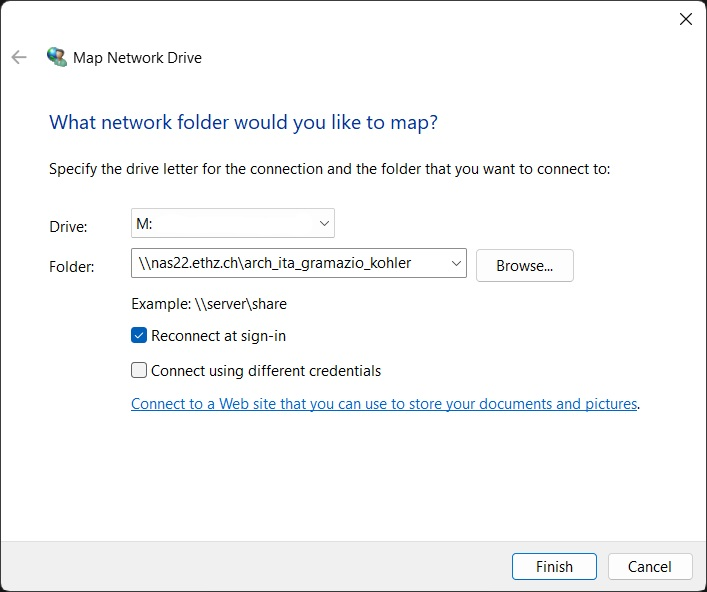
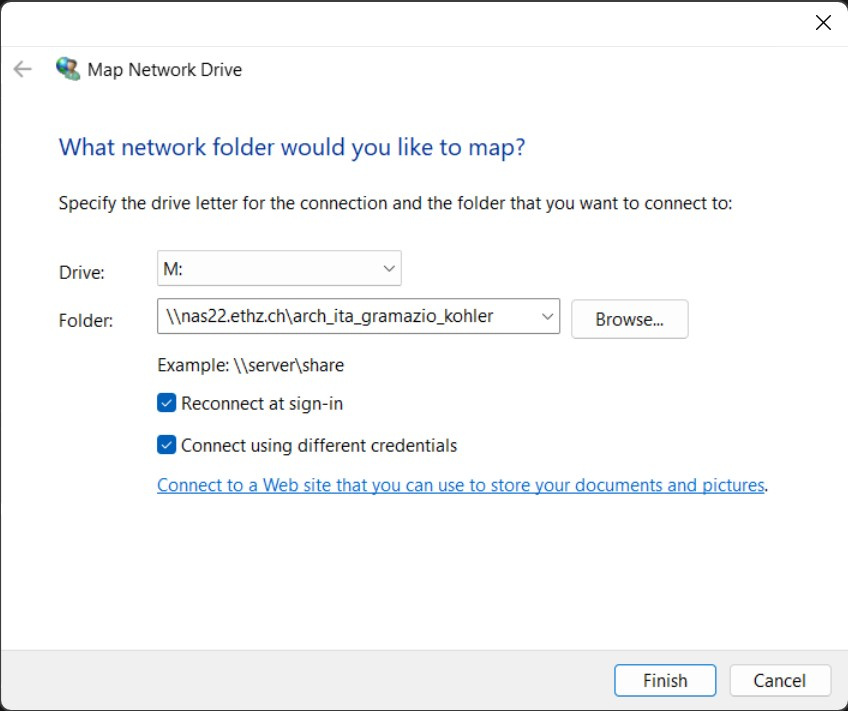
Add captioned figures for Map network drive steps
Wrap the three NAS screenshots in <figure>/<figcaption> with numbered
step legends, break the dialog step into bullets, and add the third
screenshot (credentials prompt).

diff --git a/README.md b/README.md
@@ -68,9 +68,27 @@ Once you're connected via Eduroam, you can reach the group NAS:
    - **Password:** your **global password**
 3. (Recommended) Use **Map network drive** for quick access in the future.
 
-<img src="./map-network-drive.jpg" alt="Map network drive dialog" width="500" />
+<figure>
+  <img src="./map-network-drive.jpg" alt="This PC context menu with Map network drive highlighted" width="500" />
+  <figcaption><em>1. At <strong>This PC</strong>, click the three dots (…) and select <strong>Map network drive</strong>.</em></figcaption>
+</figure>
 
-<img src="./map-network-drive-2.jpg" alt="Map network drive dialog" width="500" />
+<figure>
+  <img src="./map-network-drive-2.jpg" alt="Map Network Drive dialog with drive letter and folder path" width="500" />
+  <figcaption><em>2. Fill in the dialog:</em>
+    <ul>
+      <li>In <strong>Drive</strong>, select the letter <code>M:</code> (or any other available letter).</li>
+      <li>In <strong>Folder</strong>, enter <code>\\nas22.ethz.ch\arch_ita_gramazio_kohler</code>.</li>
+      <li>Check <strong>Reconnect at sign-in</strong>.</li>
+      <li>Check <strong>Connect using different credentials</strong>.</li>
+    </ul>
+  </figcaption>
+</figure>
+
+<figure>
+  <img src="./map-network-drive-3.jpg" alt="Windows Security dialog to enter network credentials" width="500" />
+  <figcaption><em>3. Enter your global email and password.</em></figcaption>
+</figure>
 
 The NAS serves a dual purpose:
 